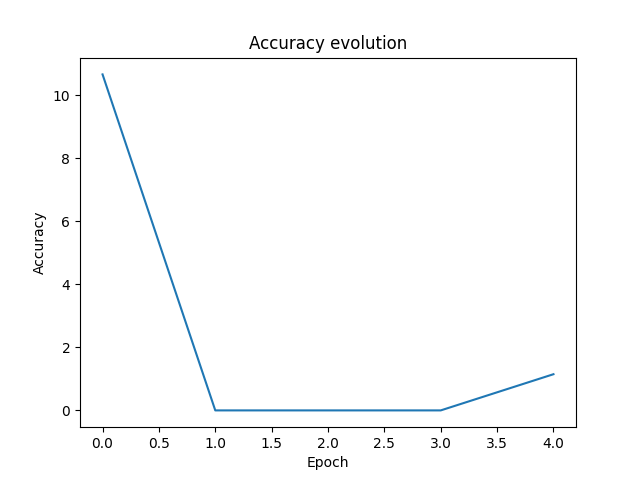
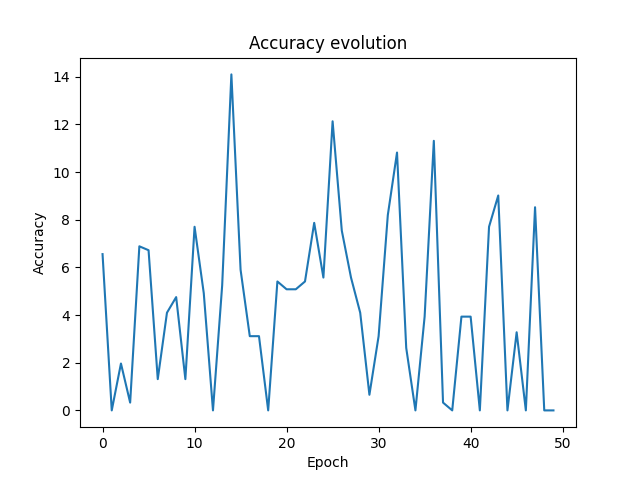
MAJ

diff --git a/src/V2/train.py b/src/V2/train.py
@@ -8,8 +8,8 @@ from torch.utils.data import DataLoader, random_split
 
 training_losses = []
 testing_accuracy = []
-batch_size = 100
-epoch_number = 5
+batch_size = 50
+epoch_number = 50
 
 def retrieve_data():
     repository = Repository()
@@ -66,8 +66,6 @@ def train(train_dataloader, model, loss_fn, optimizer, device):
         y = y.to(device)
         # Compute prediction error
         pred = model(x).to(device)
-        print(pred.size())
-        print(torch.max(pred), torch.min(pred))
         loss = loss_fn(pred, y)
 
         # Backpropagation
@@ -122,10 +120,10 @@ if __name__ == '__main__':
     ## Construct Dataset
     relations_dataset = create_dataset(data_relations, data_manager, negative_samples_count=800)
 
-    rgcn = BasicRGCN(graph=graph, in_features=2, out_features=2, data_manager=data_manager, layer_count=2).to(device)
+    rgcn = BasicRGCN(graph=graph, in_features=2, out_features=2, data_manager=data_manager, layer_count=5).to(device)
     print(rgcn, '\n')
 
-    loss_fn = nn.CrossEntropyLoss()
+    loss_fn = nn.MSELoss()
     optimizer = torch.optim.SGD(rgcn.parameters(), lr=0.1)
     
     for epoch in range (epoch_number):
